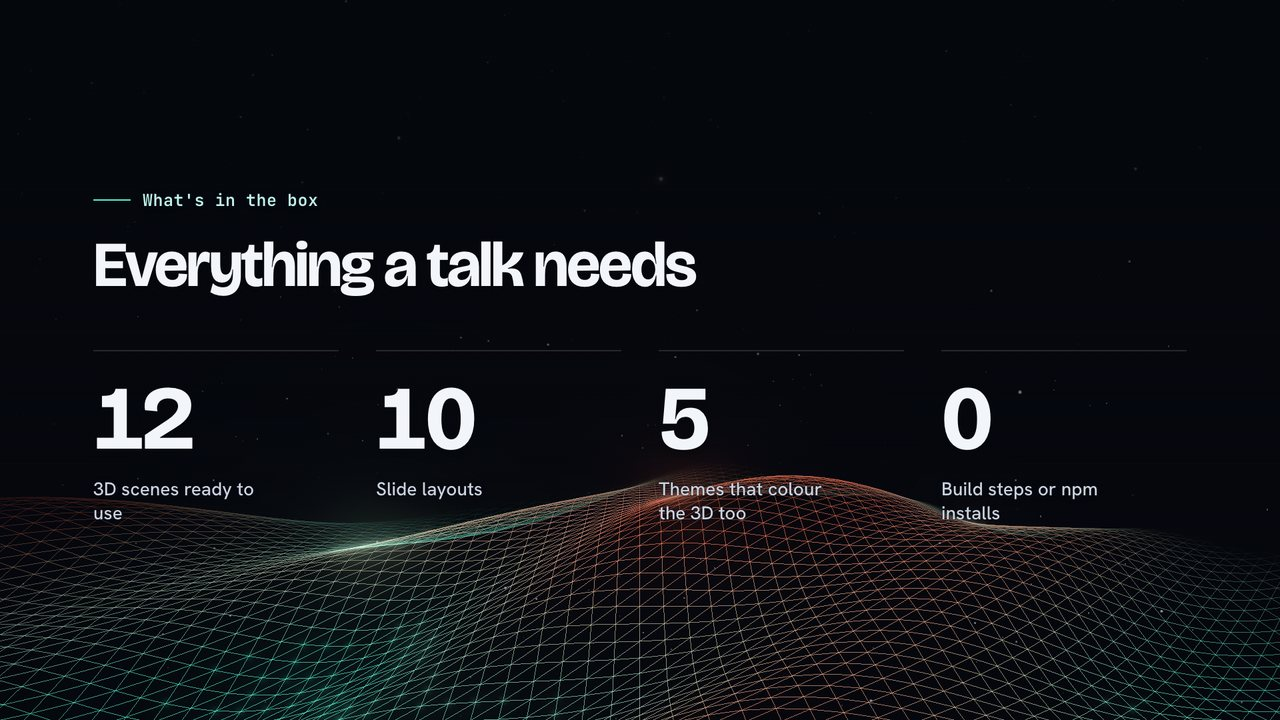
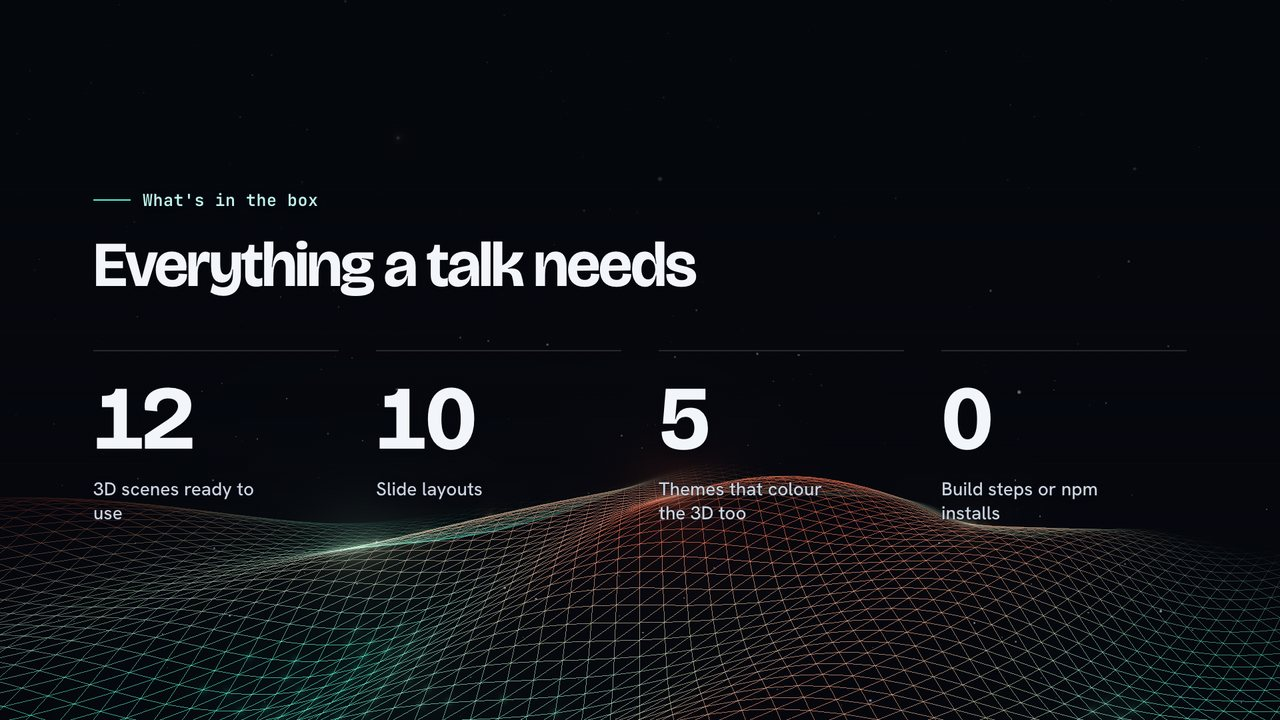
Dim orbit and bars ~20%, readable 3D labels, data-brightness
- orbit and bars scenes ~20% darker (measured on the demo's slides 7-8)
- 3D labels get a background-coloured halo; orbit's centre label moves
  above the diagram instead of dark text on the glowing core
- new per-slide data-brightness to scale a scene's colours

Changed region(s): [[0.0, 0.6417, 0.9688, 1.0], [0.9688, 0.825, 1.0, 0.9472]]

diff --git a/examples/demo/lib/scenes.js b/examples/demo/lib/scenes.js
@@ -133,11 +133,18 @@ function makeLabel(ctx, text, { height = 0.32, color, font = 'body', weight = 60
   const c = document.createElement('canvas');
   const g = c.getContext('2d');
   g.font = `${weight} ${px}px ${fam}`;
-  const w = Math.ceil(g.measureText(String(text)).width) + px * 0.6;
-  c.width = w; c.height = Math.ceil(px * 1.4);
+  const w = Math.ceil(g.measureText(String(text)).width) + px * 0.9;
+  c.width = w; c.height = Math.ceil(px * 1.6);
   g.font = `${weight} ${px}px ${fam}`;
   g.textBaseline = 'middle';
   g.textAlign = 'center';
+  // halo in the background colour (same idea as the HTML text halo) so labels read over glowing objects
+  const halo = '#' + ctx.palette.bg.getHexString(THREE.SRGBColorSpace);
+  g.lineJoin = 'round';
+  g.strokeStyle = halo; g.lineWidth = px * 0.14;
+  g.shadowColor = halo; g.shadowBlur = px * 0.35;
+  g.strokeText(String(text), w / 2, c.height / 2);
+  g.shadowBlur = 0;
   g.fillStyle = '#' + (color || ctx.palette.fg).getHexString(THREE.SRGBColorSpace);
   g.fillText(String(text), w / 2, c.height / 2);
   const tex = new THREE.CanvasTexture(c);
@@ -146,7 +153,7 @@ function makeLabel(ctx, text, { height = 0.32, color, font = 'body', weight = 60
   const mat = new THREE.SpriteMaterial({ map: tex, transparent: true, depthWrite: false, depthTest: false });
   const s = new THREE.Sprite(mat);
   const aspect = c.width / c.height;
-  s.scale.set(height * 1.4 * aspect, height * 1.4, 1);
+  s.scale.set(height * 1.6 * aspect, height * 1.6, 1);
   if (align === 'left') s.center.set(0.08, 0.5);
   if (align === 'right') s.center.set(0.92, 0.5);
   s.renderOrder = 10;
@@ -457,12 +464,13 @@ scenes.orbit = (ctx) => {
   const items = params.items ?? ['One', 'Two', 'Three', 'Four', 'Five'];
   const g = new THREE.Group();
   const core = new THREE.Mesh(new THREE.IcosahedronGeometry(0.7, 4), new THREE.MeshStandardMaterial({
-    color: palette.accent, emissive: palette.accent, emissiveIntensity: palette.isLight ? 0.1 : 0.25, roughness: 0.35, metalness: 0.2,
+    color: palette.accent.clone().multiplyScalar(0.6), emissive: palette.accent, emissiveIntensity: palette.isLight ? 0.08 : 0.13, roughness: 0.35, metalness: 0.2,
   }));
   g.add(core);
-  if (params.center) { const l = makeLabel(ctx, params.center, { height: 0.26, font: 'display', color: palette.bg }); l.position.set(0, 0, 0.95); g.add(l); }
-  const tilt = new THREE.Group(); tilt.rotation.x = 0.42; tilt.rotation.z = -0.12; g.add(tilt);
   const R = params.radius ?? 2.15;
+  // centre label sits above the whole diagram, on dark background, where no satellite ever passes
+  if (params.center) { const l = makeLabel(ctx, params.center, { height: 0.34, font: 'display', weight: 700 }); l.position.set(0, 2.05, 0); g.add(l); }
+  const tilt = new THREE.Group(); tilt.rotation.x = 0.42; tilt.rotation.z = -0.12; g.add(tilt);
   const ringPts = new THREE.EllipseCurve(0, 0, R, R).getPoints(160).map((p) => new THREE.Vector3(p.x, 0, p.y));
   const ring = new THREE.LineLoop(new THREE.BufferGeometry().setFromPoints(ringPts),
     new THREE.LineBasicMaterial({ color: palette.fg, transparent: true, opacity: 0.25 }));
@@ -470,7 +478,7 @@ scenes.orbit = (ctx) => {
   const sats = items.map((name, i) => {
     const holder = new THREE.Group();
     const col = paletteColor(palette, i);
-    const ball = new THREE.Mesh(new THREE.SphereGeometry(0.2, 24, 24), new THREE.MeshStandardMaterial({ color: col, emissive: col, emissiveIntensity: palette.isLight ? 0.1 : 0.3, roughness: 0.4 }));
+    const ball = new THREE.Mesh(new THREE.SphereGeometry(0.2, 24, 24), new THREE.MeshStandardMaterial({ color: col.clone().multiplyScalar(0.7), emissive: col, emissiveIntensity: palette.isLight ? 0.08 : 0.2, roughness: 0.4 }));
     const label = makeLabel(ctx, name, { height: 0.24 });
     label.position.y = 0.48;
     holder.add(ball, label);
@@ -514,7 +522,7 @@ scenes.bars = (ctx) => {
   const unit = params.unit ?? '';
   const bars = data.map((d, i) => {
     const col = d.highlight ? palette.accent2.clone() : palette.accent.clone().lerp(palette.accent3, i / Math.max(1, data.length - 1) * 0.6);
-    const mat = new THREE.MeshStandardMaterial({ color: col, emissive: col, emissiveIntensity: palette.isLight ? 0.02 : 0.1, roughness: 0.35, metalness: 0.2 });
+    const mat = new THREE.MeshStandardMaterial({ color: col.clone().multiplyScalar(0.88), emissive: col, emissiveIntensity: palette.isLight ? 0.016 : 0.088, roughness: 0.35, metalness: 0.2 });
     const geo = new THREE.BoxGeometry(0.62, 1, 0.62); geo.translate(0, 0.5, 0);
     const m = new THREE.Mesh(geo, mat);
     m.position.x = i * gap - width / 2;

diff --git a/skills/threejs-slides/assets/runtime/scenes.js b/skills/threejs-slides/assets/runtime/scenes.js
@@ -133,11 +133,18 @@ function makeLabel(ctx, text, { height = 0.32, color, font = 'body', weight = 60
   const c = document.createElement('canvas');
   const g = c.getContext('2d');
   g.font = `${weight} ${px}px ${fam}`;
-  const w = Math.ceil(g.measureText(String(text)).width) + px * 0.6;
-  c.width = w; c.height = Math.ceil(px * 1.4);
+  const w = Math.ceil(g.measureText(String(text)).width) + px * 0.9;
+  c.width = w; c.height = Math.ceil(px * 1.6);
   g.font = `${weight} ${px}px ${fam}`;
   g.textBaseline = 'middle';
   g.textAlign = 'center';
+  // halo in the background colour (same idea as the HTML text halo) so labels read over glowing objects
+  const halo = '#' + ctx.palette.bg.getHexString(THREE.SRGBColorSpace);
+  g.lineJoin = 'round';
+  g.strokeStyle = halo; g.lineWidth = px * 0.14;
+  g.shadowColor = halo; g.shadowBlur = px * 0.35;
+  g.strokeText(String(text), w / 2, c.height / 2);
+  g.shadowBlur = 0;
   g.fillStyle = '#' + (color || ctx.palette.fg).getHexString(THREE.SRGBColorSpace);
   g.fillText(String(text), w / 2, c.height / 2);
   const tex = new THREE.CanvasTexture(c);
@@ -146,7 +153,7 @@ function makeLabel(ctx, text, { height = 0.32, color, font = 'body', weight = 60
   const mat = new THREE.SpriteMaterial({ map: tex, transparent: true, depthWrite: false, depthTest: false });
   const s = new THREE.Sprite(mat);
   const aspect = c.width / c.height;
-  s.scale.set(height * 1.4 * aspect, height * 1.4, 1);
+  s.scale.set(height * 1.6 * aspect, height * 1.6, 1);
   if (align === 'left') s.center.set(0.08, 0.5);
   if (align === 'right') s.center.set(0.92, 0.5);
   s.renderOrder = 10;
@@ -457,12 +464,13 @@ scenes.orbit = (ctx) => {
   const items = params.items ?? ['One', 'Two', 'Three', 'Four', 'Five'];
   const g = new THREE.Group();
   const core = new THREE.Mesh(new THREE.IcosahedronGeometry(0.7, 4), new THREE.MeshStandardMaterial({
-    color: palette.accent, emissive: palette.accent, emissiveIntensity: palette.isLight ? 0.1 : 0.25, roughness: 0.35, metalness: 0.2,
+    color: palette.accent.clone().multiplyScalar(0.6), emissive: palette.accent, emissiveIntensity: palette.isLight ? 0.08 : 0.13, roughness: 0.35, metalness: 0.2,
   }));
   g.add(core);
-  if (params.center) { const l = makeLabel(ctx, params.center, { height: 0.26, font: 'display', color: palette.bg }); l.position.set(0, 0, 0.95); g.add(l); }
-  const tilt = new THREE.Group(); tilt.rotation.x = 0.42; tilt.rotation.z = -0.12; g.add(tilt);
   const R = params.radius ?? 2.15;
+  // centre label sits above the whole diagram, on dark background, where no satellite ever passes
+  if (params.center) { const l = makeLabel(ctx, params.center, { height: 0.34, font: 'display', weight: 700 }); l.position.set(0, 2.05, 0); g.add(l); }
+  const tilt = new THREE.Group(); tilt.rotation.x = 0.42; tilt.rotation.z = -0.12; g.add(tilt);
   const ringPts = new THREE.EllipseCurve(0, 0, R, R).getPoints(160).map((p) => new THREE.Vector3(p.x, 0, p.y));
   const ring = new THREE.LineLoop(new THREE.BufferGeometry().setFromPoints(ringPts),
     new THREE.LineBasicMaterial({ color: palette.fg, transparent: true, opacity: 0.25 }));
@@ -470,7 +478,7 @@ scenes.orbit = (ctx) => {
   const sats = items.map((name, i) => {
     const holder = new THREE.Group();
     const col = paletteColor(palette, i);
-    const ball = new THREE.Mesh(new THREE.SphereGeometry(0.2, 24, 24), new THREE.MeshStandardMaterial({ color: col, emissive: col, emissiveIntensity: palette.isLight ? 0.1 : 0.3, roughness: 0.4 }));
+    const ball = new THREE.Mesh(new THREE.SphereGeometry(0.2, 24, 24), new THREE.MeshStandardMaterial({ color: col.clone().multiplyScalar(0.7), emissive: col, emissiveIntensity: palette.isLight ? 0.08 : 0.2, roughness: 0.4 }));
     const label = makeLabel(ctx, name, { height: 0.24 });
     label.position.y = 0.48;
     holder.add(ball, label);
@@ -514,7 +522,7 @@ scenes.bars = (ctx) => {
   const unit = params.unit ?? '';
   const bars = data.map((d, i) => {
     const col = d.highlight ? palette.accent2.clone() : palette.accent.clone().lerp(palette.accent3, i / Math.max(1, data.length - 1) * 0.6);
-    const mat = new THREE.MeshStandardMaterial({ color: col, emissive: col, emissiveIntensity: palette.isLight ? 0.02 : 0.1, roughness: 0.35, metalness: 0.2 });
+    const mat = new THREE.MeshStandardMaterial({ color: col.clone().multiplyScalar(0.88), emissive: col, emissiveIntensity: palette.isLight ? 0.016 : 0.088, roughness: 0.35, metalness: 0.2 });
     const geo = new THREE.BoxGeometry(0.62, 1, 0.62); geo.translate(0, 0.5, 0);
     const m = new THREE.Mesh(geo, mat);
     m.position.x = i * gap - width / 2;

diff --git a/examples/demo/lib/threejs-slides.js b/examples/demo/lib/threejs-slides.js
@@ -249,6 +249,7 @@ async function createDeck(options = {}) {
       offset: parseVec(el.dataset.offset) || layoutOffset(el),
       scale: Number(el.dataset.scale || 1),
       dim: el.dataset.dim != null ? Number(el.dataset.dim) : layoutDim(el),
+      brightness: el.dataset.brightness != null ? Number(el.dataset.brightness) : 1,
       notes: notesEl ? notesEl.innerHTML : (el.dataset.notes || ''),
       vis: 0, visFrom: 0, visTo: 0, group: null, inst: null, mats: [],
     };
@@ -273,6 +274,19 @@ async function createDeck(options = {}) {
     group.add(inst.object);
     group.visible = false;
     scene.add(group);
+    // data-brightness: darken/brighten the object's colours (not its opacity). Labels (sprites) are left alone.
+    if (s.brightness !== 1) {
+      const seen = new Set();
+      group.traverse((o) => {
+        if (o.isSprite) return;
+        (Array.isArray(o.material) ? o.material : o.material ? [o.material] : []).forEach((m) => {
+          if (seen.has(m)) return; seen.add(m);
+          m.color?.multiplyScalar(s.brightness);
+          if (m.emissiveIntensity != null) m.emissiveIntensity *= s.brightness;
+          if (m.uniforms?.uBrightness) m.uniforms.uBrightness.value *= s.brightness;
+        });
+      });
+    }
     const managed = new Set(inst.fadeManaged || []);
     const mats = [];
     group.traverse((o) => {

diff --git a/skills/threejs-slides/assets/runtime/threejs-slides.js b/skills/threejs-slides/assets/runtime/threejs-slides.js
@@ -249,6 +249,7 @@ async function createDeck(options = {}) {
       offset: parseVec(el.dataset.offset) || layoutOffset(el),
       scale: Number(el.dataset.scale || 1),
       dim: el.dataset.dim != null ? Number(el.dataset.dim) : layoutDim(el),
+      brightness: el.dataset.brightness != null ? Number(el.dataset.brightness) : 1,
       notes: notesEl ? notesEl.innerHTML : (el.dataset.notes || ''),
       vis: 0, visFrom: 0, visTo: 0, group: null, inst: null, mats: [],
     };
@@ -273,6 +274,19 @@ async function createDeck(options = {}) {
     group.add(inst.object);
     group.visible = false;
     scene.add(group);
+    // data-brightness: darken/brighten the object's colours (not its opacity). Labels (sprites) are left alone.
+    if (s.brightness !== 1) {
+      const seen = new Set();
+      group.traverse((o) => {
+        if (o.isSprite) return;
+        (Array.isArray(o.material) ? o.material : o.material ? [o.material] : []).forEach((m) => {
+          if (seen.has(m)) return; seen.add(m);
+          m.color?.multiplyScalar(s.brightness);
+          if (m.emissiveIntensity != null) m.emissiveIntensity *= s.brightness;
+          if (m.uniforms?.uBrightness) m.uniforms.uBrightness.value *= s.brightness;
+        });
+      });
+    }
     const managed = new Set(inst.fadeManaged || []);
     const mats = [];
     group.traverse((o) => {

diff --git a/skills/threejs-slides/references/scenes.md b/skills/threejs-slides/references/scenes.md
@@ -13,6 +13,7 @@ Every scene accepts these slide attributes (handled by the engine, not the scene
 | `data-camera="x,y,z"` | camera position relative to the slide anchor (overrides the scene default) | `data-camera="0,2,10"` |
 | `data-look="x,y,z"` | camera look-at point relative to the anchor | `data-look="0,0.5,0"` |
 | `data-dim="0..1"` | 3D brightness on this slide. Default by layout: 1 for split layouts, 0.7 for top/bottom/stats, 0.42 when the 3D sits behind text (title, center, statement, section, cards) | `data-dim="0.6"` |
+| `data-brightness="n"` | multiply the object's colours and glow (0.8 = 20% darker). Doesn't touch labels. Works on standard/line/points materials; custom shaders opt in with a `uBrightness` uniform | `data-brightness="0.8"` |
 | `data-scene-steps="n"` | number of build steps for the scene when there are fewer `data-step` elements | `data-scene-steps="5"` |
 
 Layouts set a default offset: `layout-split` → object at x = +3.3 (right), `layout-split-reverse` → x = −3.3 (left), `layout-bottom` → y = +0.5, `layout-top` → y = −1.1.
@@ -75,7 +76,7 @@ Says: ecosystem, product pillars, team, options. Best with `layout-split-reverse
 | param | default | |
 |---|---|---|
 | `items` | 5 placeholders | satellite labels; keep to 7 or fewer, each 1–2 words |
-| `center` | none | label on the core |
+| `center` | none | title label shown above the orbit |
 | `radius` | 2.15 | ring radius |
 
 Steps: step *k* highlights item *k* (step 0 shows all evenly). Use `data-scene-steps="<items.length>"`.
